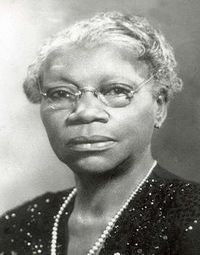
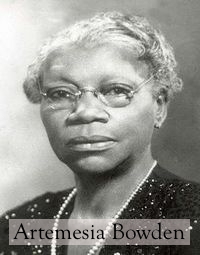
final edits
added footer to a lot of pages, checking now

Changed region(s): [[0.03, 0.851, 0.96, 0.9608]]

diff --git a/pubfigures.html b/pubfigures.html
@@ -54,39 +54,21 @@
 			<li><img src="Assets/ellaaustin.jpg" alt id="austin"></li>
 			<li><img src="Assets/sutton.jpg" alt id="sutton"></li>
 		</ul></div>
+		
 		<script type="text/javascript">
   $(document).ready(function() {
     $("#lightSlider").lightSlider({
 		auto: true,
 		loop: true,
 		speed: 1000,
-		responsive : [
-            {
-                breakpoint:800,
-                settings: {
-                    item:3,
-                    slideMove:1,
-                    slideMargin:6,
-                  }
-            },
-            {
-                breakpoint:480,
-                settings: {
-                    item:2,
-                    slideMove:1
-                  }
-            }
-        ]
-		
-	}); 
+		}); 
   });
 </script>
 		
 <section id="section2">
 			<p>Black Heritage San Antonio values and protects the legacies of prominent community leaders and activists from days gone by. There were many individuals who paved the way for African Americans in San Antonio. 
-			Business owners, politicians, educators, doctors, atheletes; each left their mark in history and attributed to current standards of living for the African American community. While many of their stories have been left untouched in the archives, we are allowing their voices to be heard once again. These individuals deserve reverence for their contributions.</p></section>
-		
-	
+			Business owners, politicians, educators, doctors, atheletes; each left their mark in history and attributed to the current standards of living for the African American community. While many of their stories have been left untouched in the archives, we are allowing their voices to be heard once again. These individuals deserve reverence for their contributions.</p></section>
+<footer>Copyright 2020, Raynna Rivera ©</footer>
 </div>	
 </body>
 </html>

diff --git a/waystogive.html b/waystogive.html
@@ -2,8 +2,8 @@
 <html>
 <head>
 <meta charset="UTF-8">
-<title>BHSA:Contact Form</title>
-	<link href="css/getinvolved.css" rel="stylesheet" type="text/css">
+<title>BHSA: Ways to Give</title>
+	<link href="css/waystogive.css" rel="stylesheet" type="text/css">
 	<link href="https://fonts.googleapis.com/css?family=Sorts+Mill+Goudy&display=swap" rel="stylesheet">
 </head>
 
@@ -39,27 +39,10 @@
       	<a href="waystogive.html">Ways To Give</a>
 		</div></div>
 	</nav>
-		<section id="sec1"><h2>Get Involved - Contact Us</h2></section>
-		<div class="contact">
-  <form action="action_page.php">
-
-    <label for="fname">Name</label>
-    <input type="text" id="name" name="name" placeholder="Your name..">
-
-    <label for="lname">Email</label>
-    <input type="text" id="email" name="email" placeholder="Your email..">
-
-    <label for="country">Subject</label>
-    <input type="text" id="subject" name="subject" placeholder="Reason for contact..">
-
-    <label for="subject">Message</label>
-    <textarea id="message" name="message" placeholder="Write something.." style="height:200px"></textarea>
-
-    <input type="submit" value="Submit">
-
-  </form>
-</div>
+		<section id="sec1"><img src="Assets/donate.PNG" alt id="donate"></section>
+		<section id="sec2"><a href="https://saaacam.org/donations/"><img src="Assets/donatebutton.jpg" alt id="button"></a></section>
+		<section id="sec3">Please consider making a donation that will go towards future preservation efforts and operations.<br> These donations will directly benefit SAAACAM.</section>
 <footer>Copyright 2020, Raynna Rivera ©</footer>
-	</div>
+</div>
 </body>
 </html>

diff --git a/css/waystogive.css b/css/waystogive.css
@@ -67,48 +67,24 @@ float: none;
   display: block;
 }
 #sec1{
-	width: 480px;
-	height: 80px;
-	background-color:white;
+	width: 960px;
+	height: 310px;
 	margin: 0 auto;
-	padding: 10px, 10px;
-}
-h2{
-	font-family:'Sorts Mill Goudy', serif;
-	font-size: 40px;
 	text-align: center;
-	padding: 10px;
+}
+#sec2{
+	width: 960px;
+	height: 150px;
 	margin: 0 auto;
+	text-align: center;
 }
-input[type=text], select, textarea {
-  width: 100%; 
-  padding: 12px;
-  border: 1px solid #ccc; 
-  border-radius: 4px; 
-  box-sizing: border-box;
-  margin-top: 6px; 
-  margin-bottom: 16px; 
-  resize: vertical 
-}
-input[type=submit] {
-  background-color: #5D565A;
-  color: white;
-  padding: 12px 20px;
-  border: none;
-  border-radius: 4px;
-  cursor: pointer;
-}
-input[type=submit]:hover {
-  background-color: #45a049;
-}
-.contact{
-	width:400px;
-	height:550px;
-	align-content: center;
+#sec3{
+	width: 960px;
+	height: 150px;
 	margin: 0 auto;
-  	border-radius: 5px;
-  	background-color: #E3B575;
-  	padding: 20px;
+	text-align: center;
+	font-size: 20px;
+	font-family:'Sorts Mill Goudy', serif;
 }
 footer{
 	width: 0 auto;

diff --git a/hislandmarks.html b/hislandmarks.html
@@ -40,7 +40,7 @@
       	<a href="waystogive.html">Ways To Give</a>
 		</div></div>
 	</nav>
-<section id="section1"><h2>Historical Landmarks Changed8</h2></section>
+<section id="section1"><h2>Historical Landmarks</h2></section>
 <section id="section2">
 	<div id="image1"><img src="Assets/cameo.jpg" alt id="cameo"></div>
 	<div id="image2"><img src="Assets/keyhole.jpg" alt id="keyhole"></div>

diff --git a/css/pubfigures.css b/css/pubfigures.css
@@ -89,3 +89,9 @@ h3{
 	padding: 20px, 20px;
 	text-align: center;
 }
+footer{
+	width: 0 auto;
+	height: 30px;
+	font-family: 'Sorts Mill Goudy', serif;
+	padding: 5px 0px;
+}
